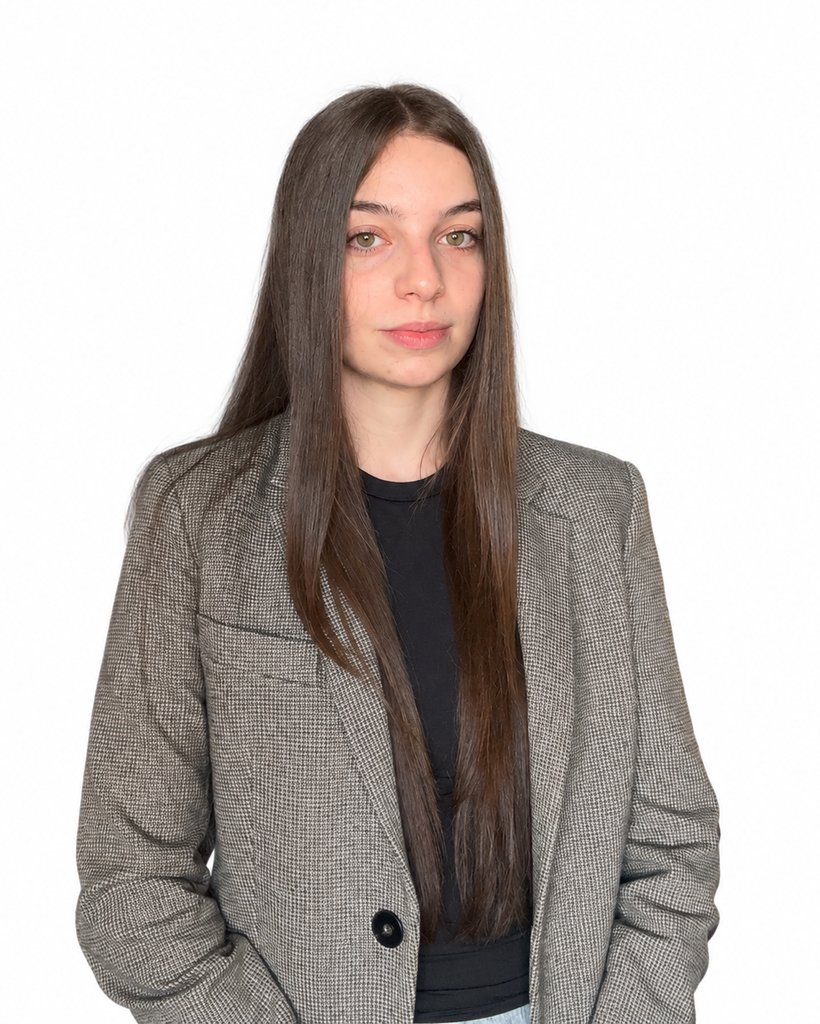
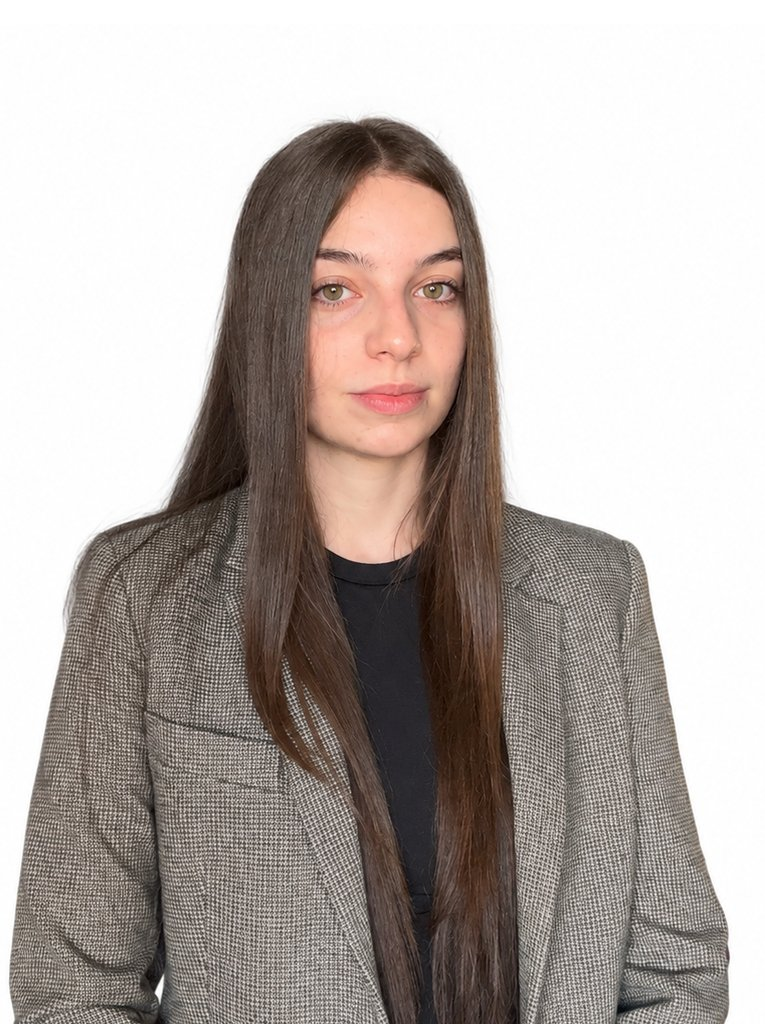
Adjust Elena Trombini photo crop

diff --git a/index.html b/index.html
@@ -74,7 +74,7 @@ nav a:focus-visible,.btn:focus-visible{outline:2px solid currentColor;outline-of
 <div class="m"><div class="p" role="img" aria-label="Mattia Molteni" style="background-image:url(mattia-molteni.jpg)"></div><div class="i"><h4>Mattia Molteni</h4><p class="degree">Master in Quantitative Finance</p><div class="c"><a href="mailto:mattia.molteni@usi.ch">mattia.molteni@usi.ch</a><br><a href="https://www.linkedin.com/in/mattia-molteni-6b993a399/" target="_blank" rel="noopener noreferrer" aria-label="Mattia Molteni on LinkedIn (opens in a new tab)">LinkedIn ↗</a></div></div></div>
 <div class="m"><div class="p" role="img" aria-label="Federico Rigoni" style="background-image:url(federico-rigoni.jpg)"></div><div class="i"><h4>Federico Rigoni</h4><p class="degree">Master in Banking and Finance</p><div class="c"><a href="mailto:federico.rigoni@usi.ch">federico.rigoni@usi.ch</a></div></div></div>
 <div class="m"><div class="p" role="img" aria-label="Davide Sordelli" style="background-image:url(davide-sordelli.jpg)"></div><div class="i"><h4>Davide Sordelli</h4><p class="degree">Master in Banking and Finance</p><div class="c"><a href="mailto:davide.sordelli@usi.ch">davide.sordelli@usi.ch</a></div></div></div>
-<div class="m"><div class="p" role="img" aria-label="Elena Trombini" style="background-image:url(elena-trombini.jpg)"></div><div class="i"><h4>Elena Trombini</h4><p class="degree">Master in Digital Finance</p><div class="c"><a href="mailto:elena.trombini@usi.ch">elena.trombini@usi.ch</a><br><a href="https://www.linkedin.com/in/elena-trombini-b59a7b319/" target="_blank" rel="noopener noreferrer" aria-label="Elena Trombini on LinkedIn (opens in a new tab)">LinkedIn ↗</a></div></div></div>
+<div class="m"><div class="p" role="img" aria-label="Elena Trombini" style="background-image:url(elena-trombini.jpg?v=2)"></div><div class="i"><h4>Elena Trombini</h4><p class="degree">Master in Digital Finance</p><div class="c"><a href="mailto:elena.trombini@usi.ch">elena.trombini@usi.ch</a><br><a href="https://www.linkedin.com/in/elena-trombini-b59a7b319/" target="_blank" rel="noopener noreferrer" aria-label="Elena Trombini on LinkedIn (opens in a new tab)">LinkedIn ↗</a></div></div></div>
 <div class="m"><div class="p" role="img" aria-label="Sabrina Virgillito" style="background-image:url(sabrina-virgillito.jpg)"></div><div class="i"><h4>Sabrina Virgillito</h4><p class="degree">Master in Quantitative Finance</p><div class="c"><a href="mailto:sabrina.virgillito@usi.ch">sabrina.virgillito@usi.ch</a><br><a href="https://www.linkedin.com/in/sabrina-virgillito-b2337025b/" target="_blank" rel="noopener noreferrer" aria-label="Sabrina Virgillito on LinkedIn (opens in a new tab)">LinkedIn ↗</a></div></div></div>
 </div></div>
 <footer class="site-footer"><div class="footer-identity"><div class="footer-brand"><img src="sixfold-symbol-ivory.png" alt="" width="38" height="38"><span>Sixfold Capital</span></div><p>Via Giuseppe Buffi 13<br>6900 Lugano, Switzerland</p></div><div class="footer-company"><h2>Company</h2><ul><li><a href="index.html#about">About Us</a></li><li><a href="index.html#team">Our team</a></li><li><a href="investment-approach.html">Investment Approach</a></li></ul></div><div class="footer-contact"><h2>Contact us</h2><ul><li><a href="mailto:info@sixfoldcapital.com"><svg viewBox="0 0 24 24" aria-hidden="true" fill="none" stroke="currentColor" stroke-width="1.6"><rect x="2" y="4" width="20" height="16" rx="1"/><path d="m2 5 10 8L22 5"/></svg><span>info@sixfoldcapital.com</span></a></li><li><a href="contact.html"><svg viewBox="0 0 24 24" aria-hidden="true" fill="none" stroke="currentColor" stroke-width="1.6"><path d="M3 12h17m-7-7 7 7-7 7"/></svg><span>Send a message</span></a></li></ul></div><div class="footer-socials"><h2>Follow us</h2><div class="social-links"><a href="https://www.facebook.com/" target="_blank" rel="noopener noreferrer" aria-label="Facebook"><svg viewBox="0 0 24 24" aria-hidden="true" fill="currentColor"><path d="M14 21v-8h3l.5-4H14V7c0-1 .3-2 2-2h2V1.4A26 26 0 0 0 15 1c-3 0-5 2-5 5v3H7v4h3v8z"/></svg></a><a href="https://www.instagram.com/" target="_blank" rel="noopener noreferrer" aria-label="Instagram"><svg viewBox="0 0 24 24" aria-hidden="true" fill="none" stroke="currentColor" stroke-width="1.6"><rect x="3" y="3" width="18" height="18" rx="5"/><circle cx="12" cy="12" r="4"/><circle cx="18" cy="6" r=".7" fill="currentColor"/></svg></a><a href="https://x.com/" target="_blank" rel="noopener noreferrer" aria-label="X"><svg viewBox="0 0 24 24" aria-hidden="true" fill="none" stroke="currentColor" stroke-width="1.6"><path d="m5 4 14 16M19 4 5 20"/></svg></a></div></div></footer>
